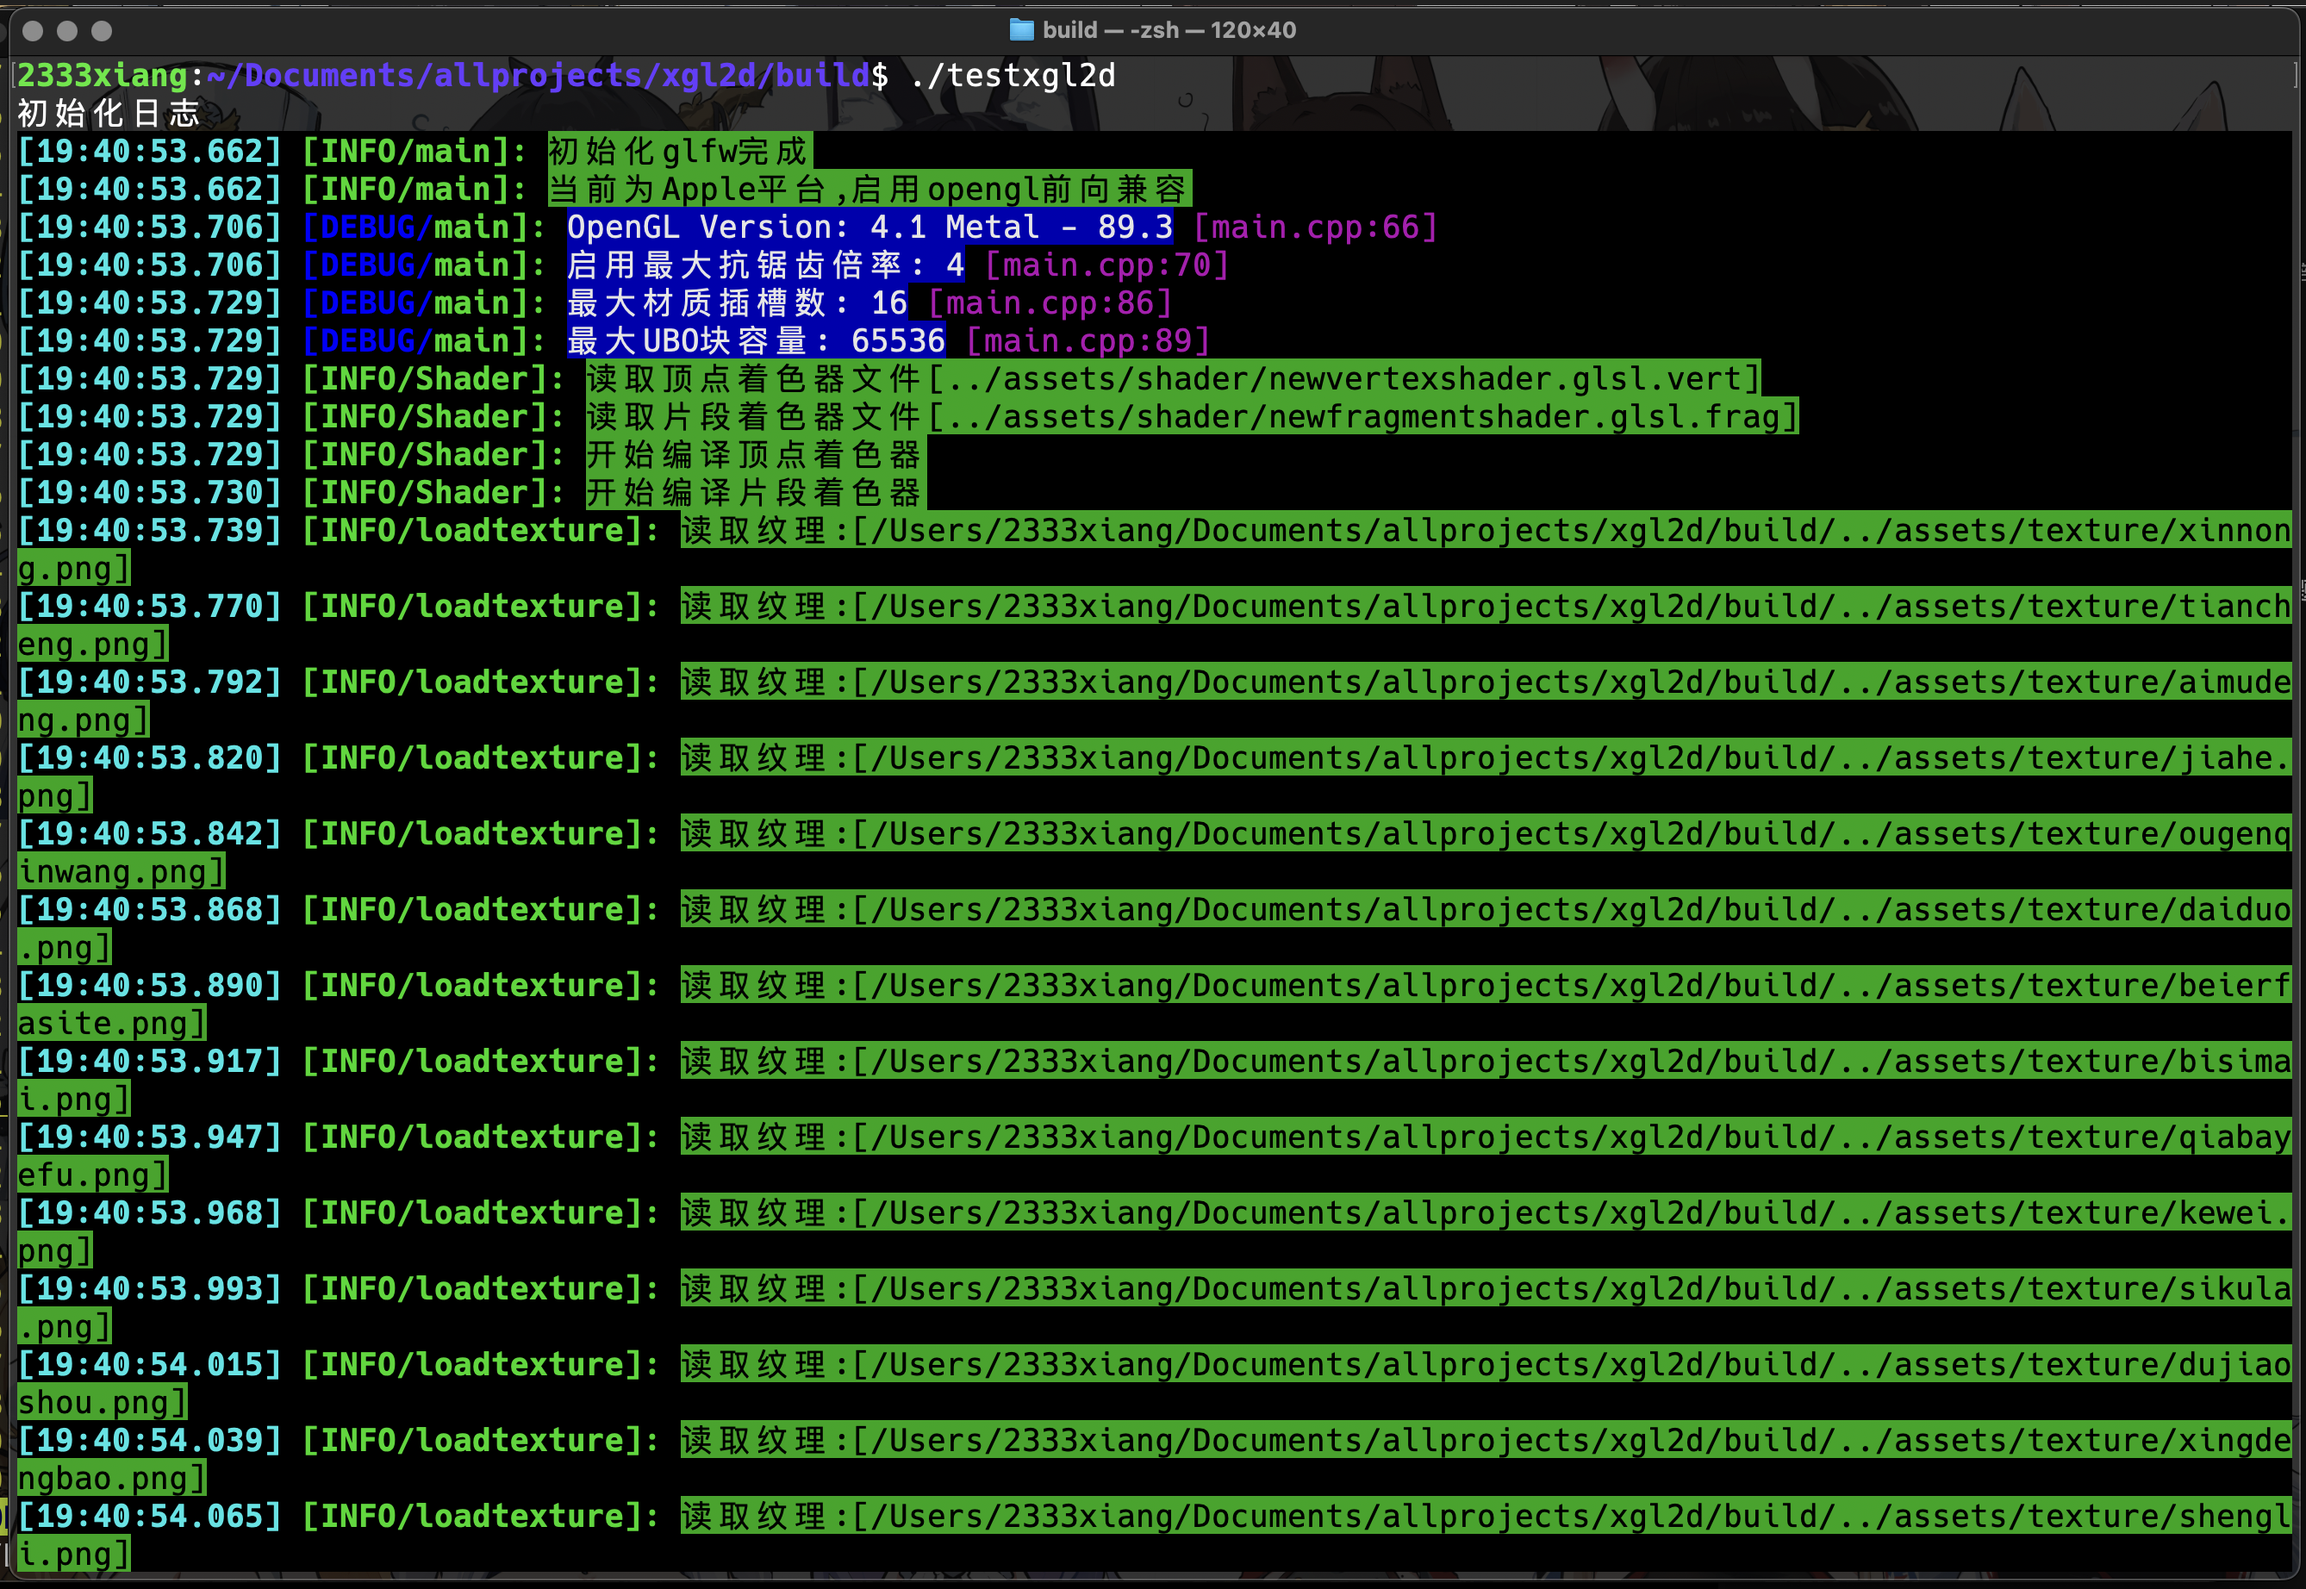
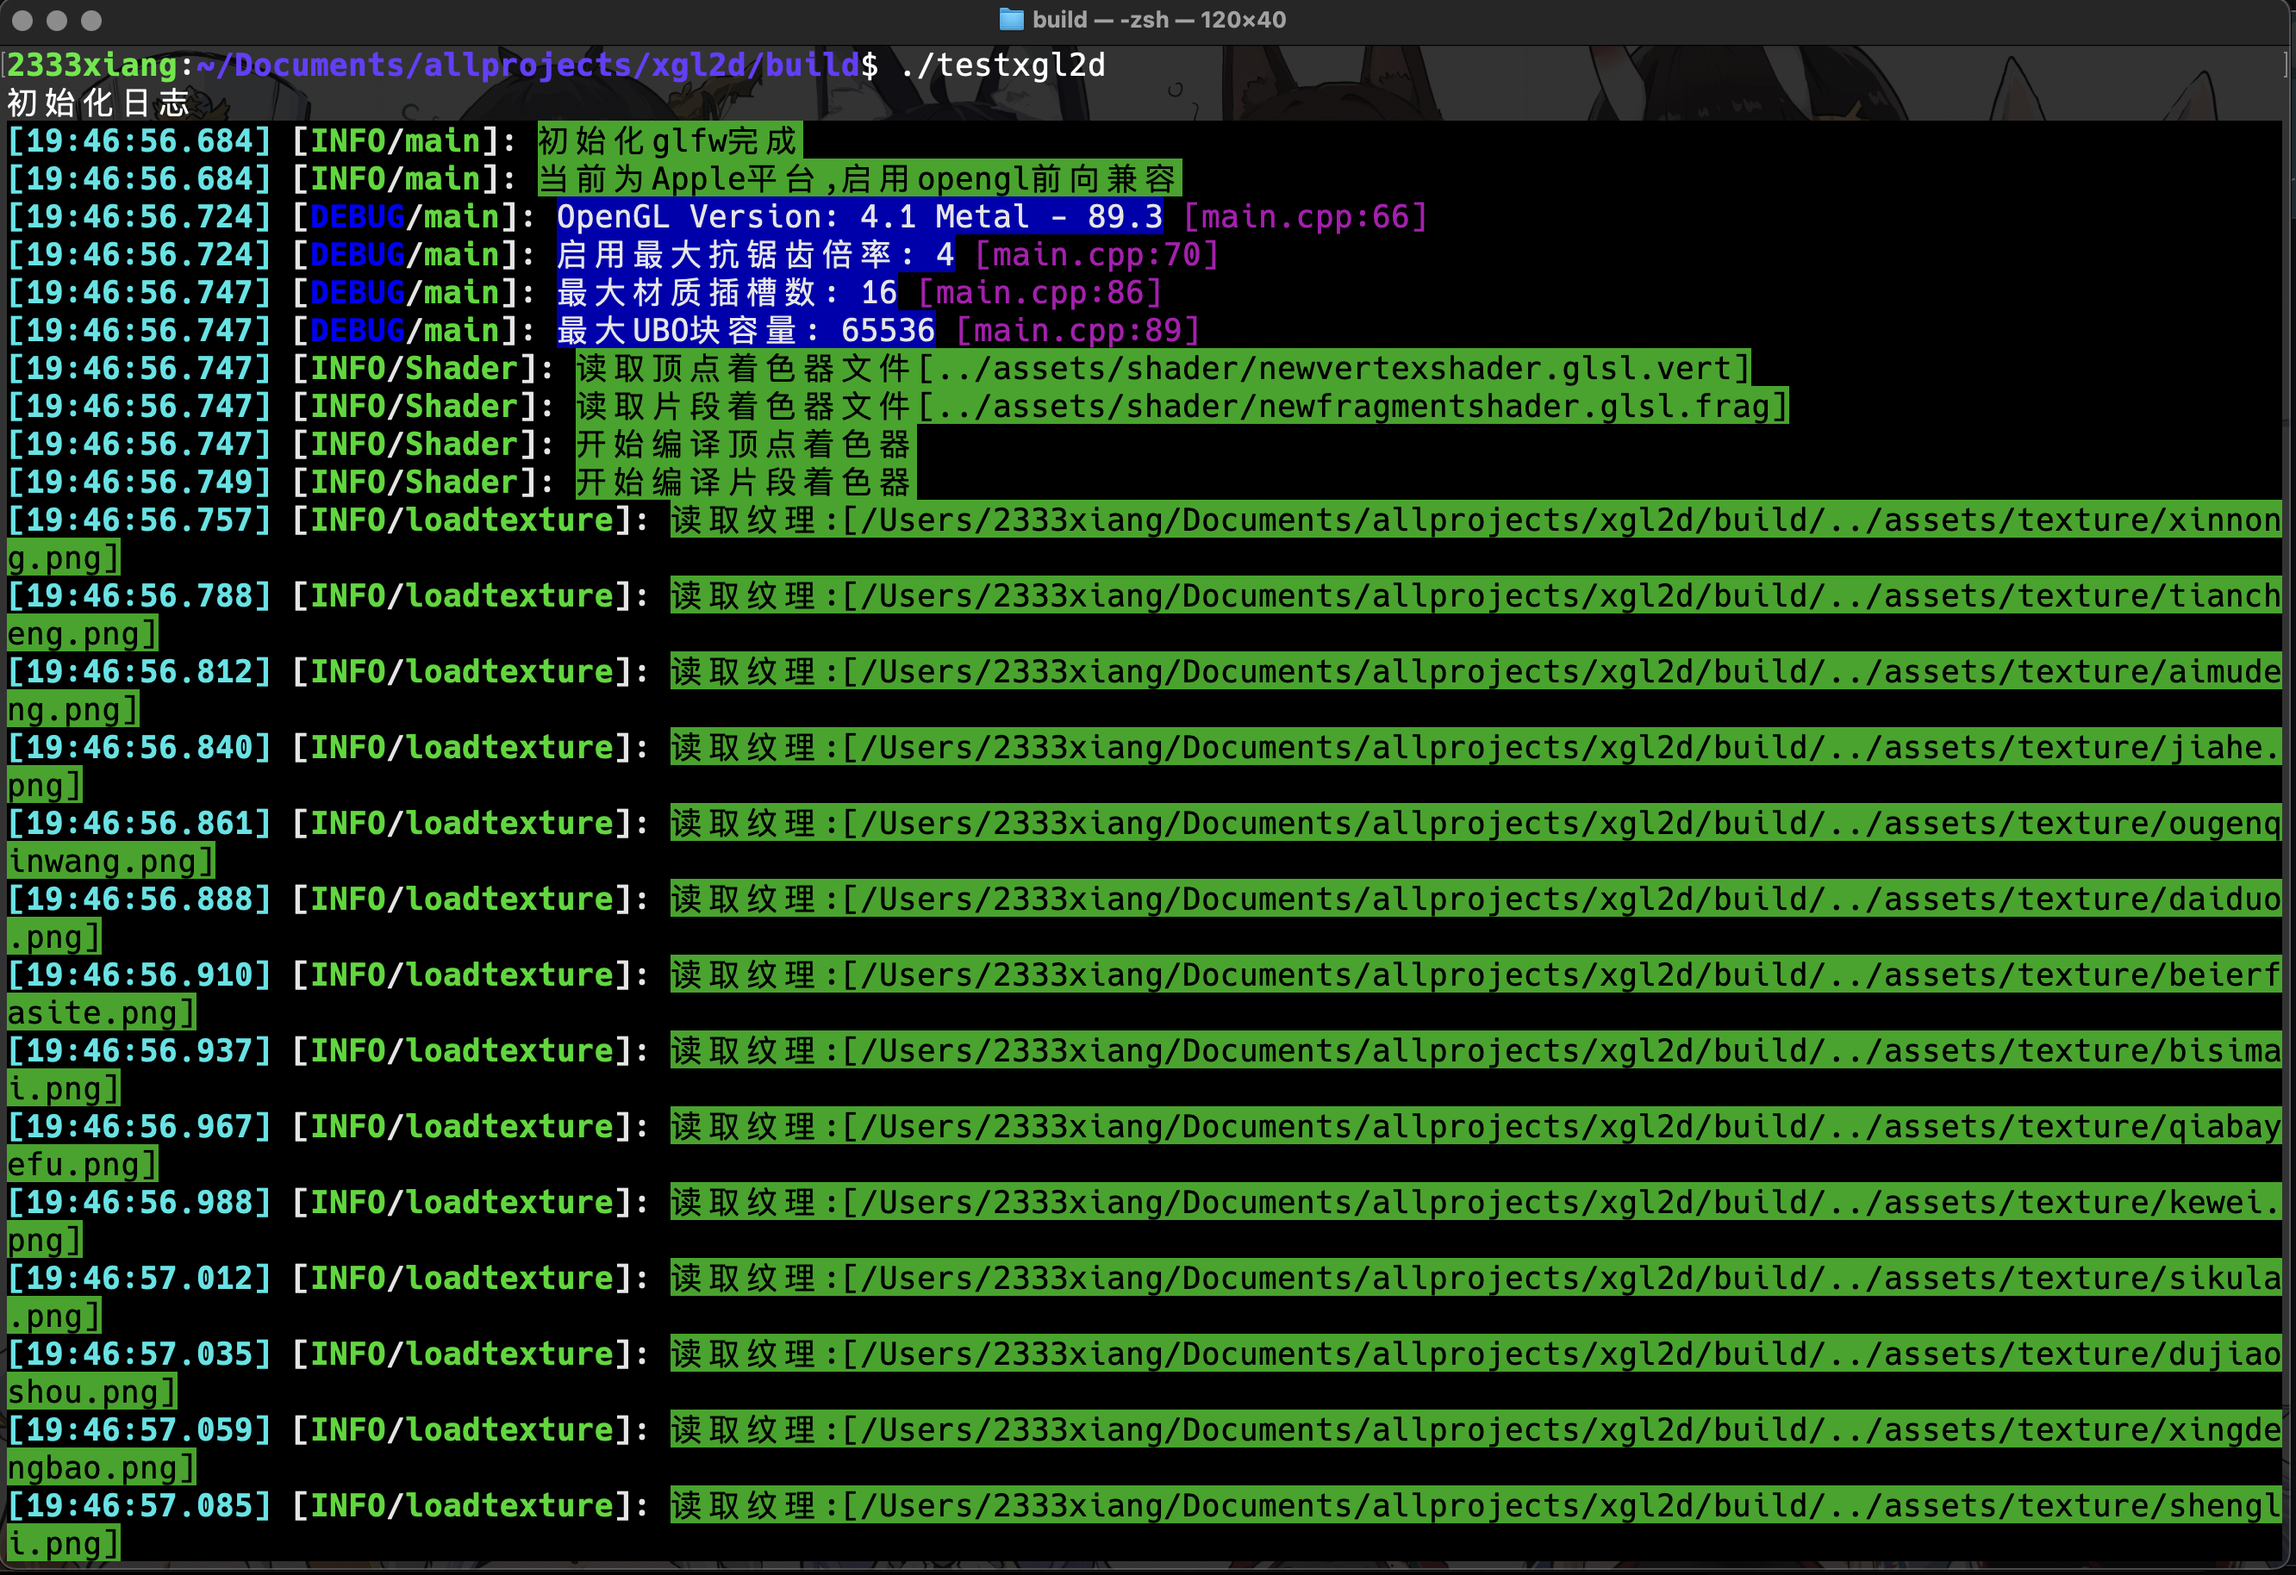
修复日志颜色

diff --git a/src/logger/logger.cpp b/src/logger/logger.cpp
@@ -111,11 +111,12 @@ void CustomFormatter::format(const spdlog::details::log_msg &msg,
   fmt::format_to(std::back_inserter(dest), "{}\033[36;1m[{}] \033[0m",
                  bg_color_code, formatted_time);
   // 添加日志等级，使用背景色当做前景色
-  fmt::format_to(std::back_inserter(dest), "{}[{}/{}", message_forge_color_code,
-                 log_level_str, bg_color_code);
+  fmt::format_to(std::back_inserter(dest), "\033[1;97;40m[{}{}\033[1;97;40m/{}",
+                 message_forge_color_code, log_level_str, bg_color_code);
   // 添加函数名
-  fmt::format_to(std::back_inserter(dest), "{}{}{}]: {}", bg_color_code,
-                 function_color_code, msg.source.funcname, bg_color_code);
+  fmt::format_to(std::back_inserter(dest), "{}{}{}\033[1;97;40m]: {}",
+                 bg_color_code, function_color_code, msg.source.funcname,
+                 bg_color_code);
   // 文本消息
   fmt::format_to(std::back_inserter(dest), "{}{}{}", message_color_code,
                  msg.payload, bg_color_code);
